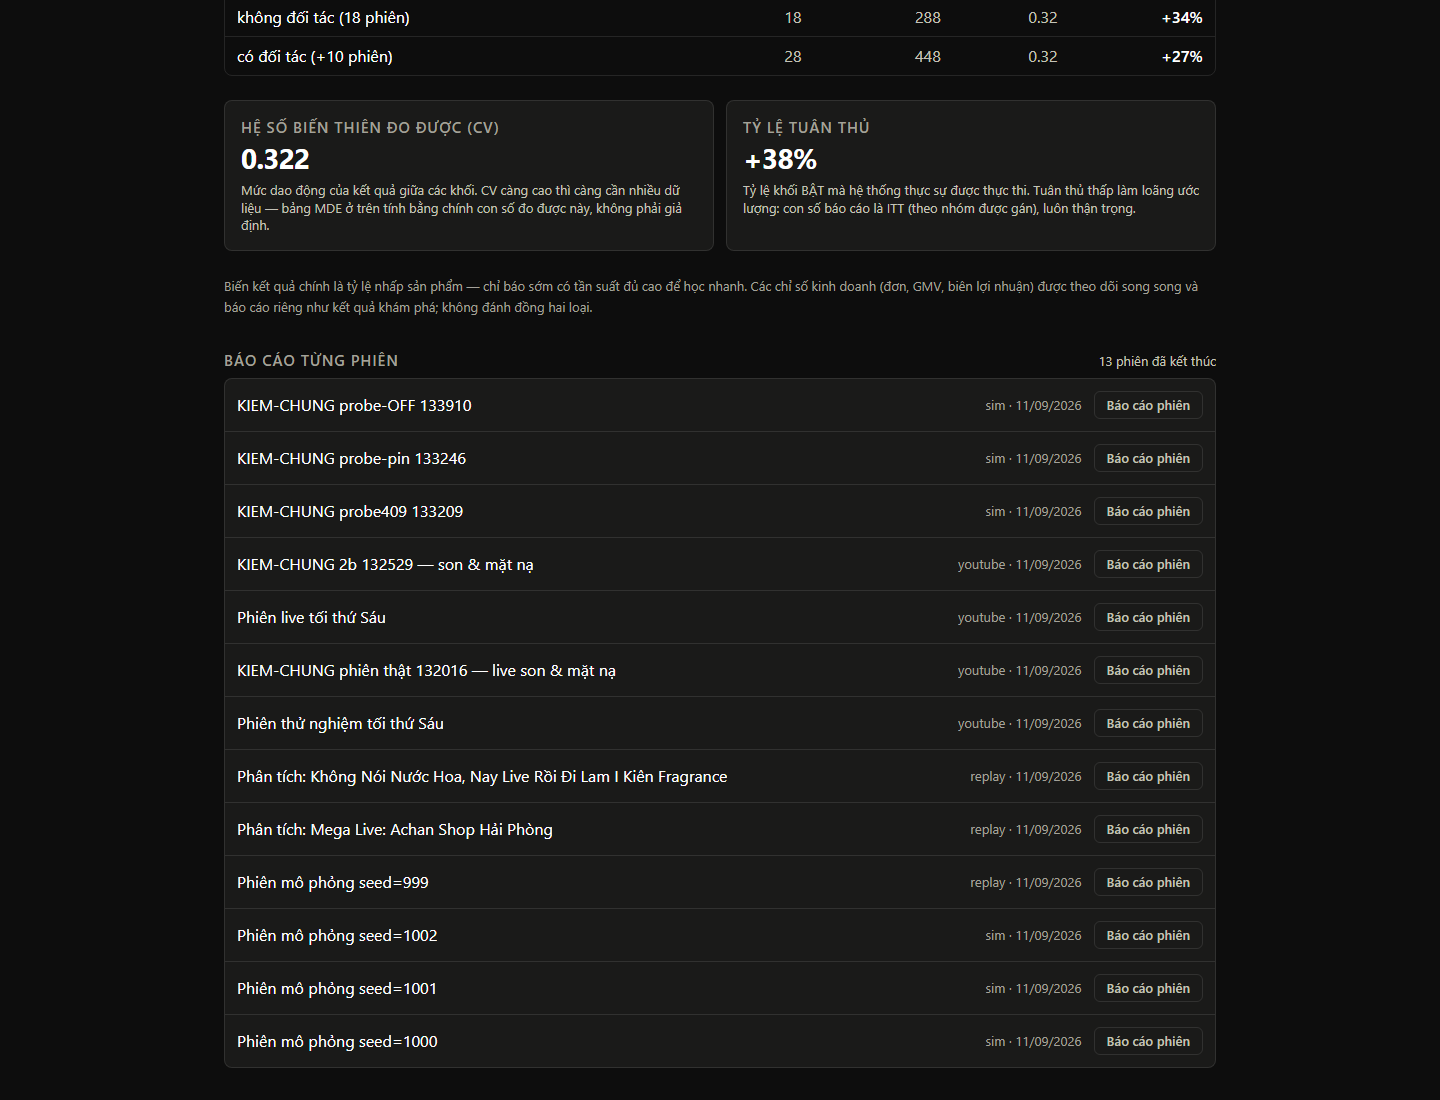
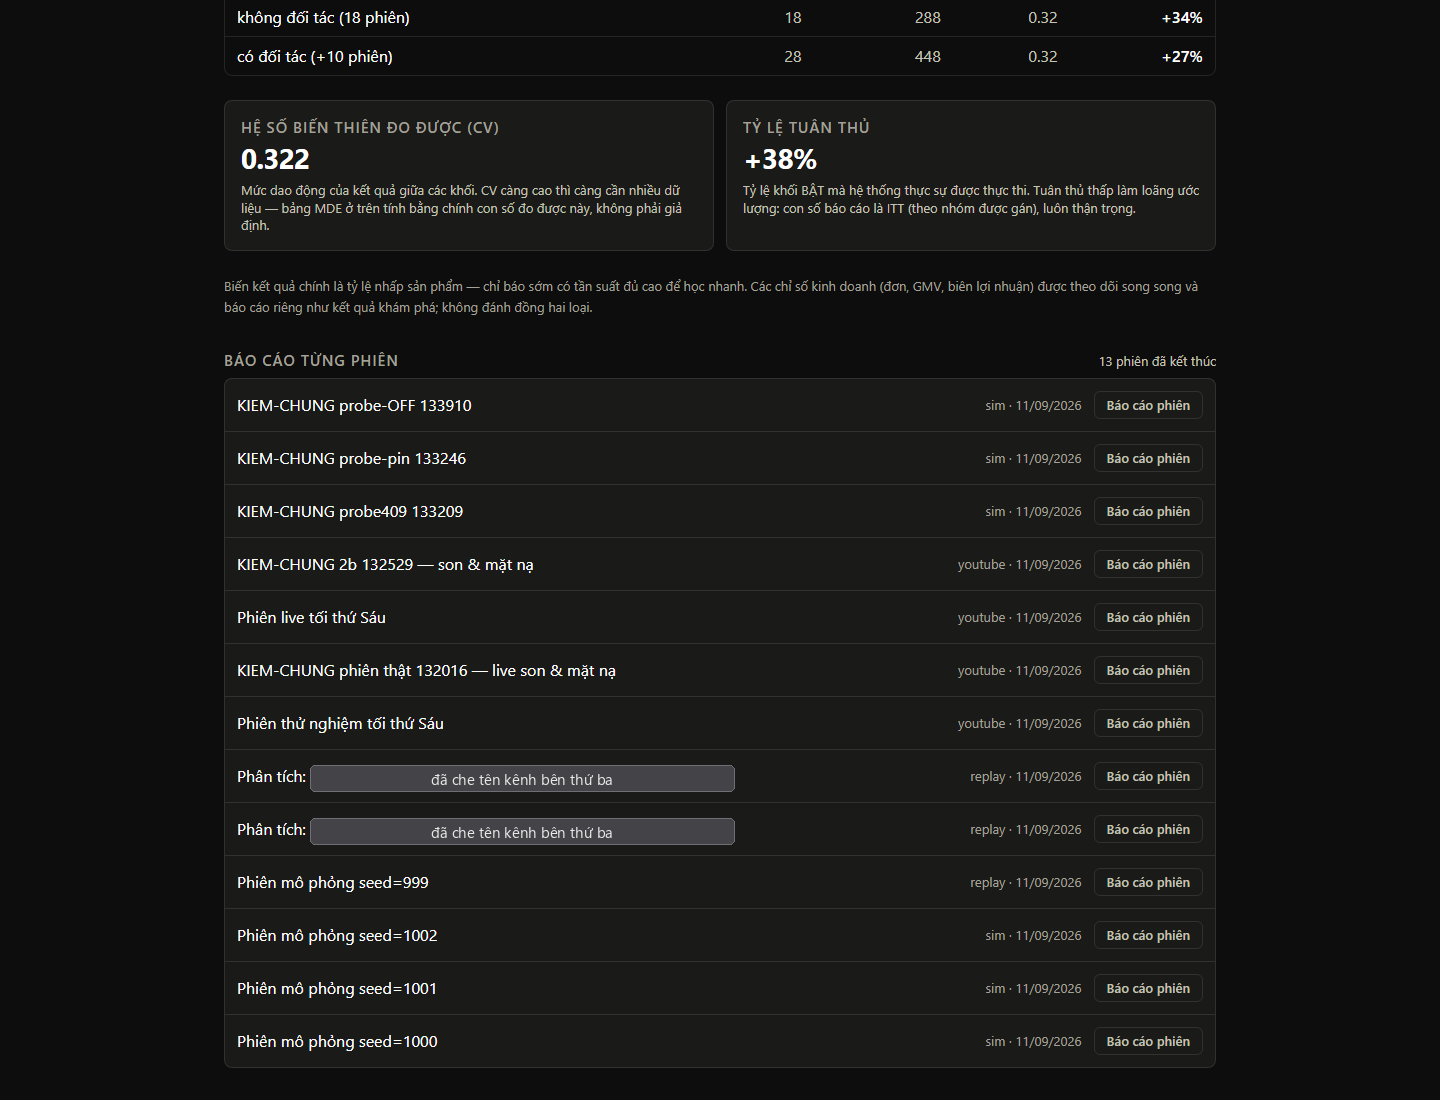
Anh huong dan: che binh luan nguoi xem va ten kenh ben thu ba
Truoc khi day len kho cong khai, che bang khoi xam co chu cac vung rieng tu
trong 4 anh chup ngay 11/09 cua docs/img/:
- l2-04, l2-05: khung binh luan truc tiep (binh luan nguyen van, ten tai
  khoan) va ten buoi live trong o chon buoi.
- l4-02: ten hai buoi live cua kenh khac trong danh sach bao cao.
- l4-03: ten buoi live o tieu de bao cao.
Giu nguyen moc thoi gian, nhan y dinh, nut va bieu do de huong dan van dung
duoc. Them hai cau ghi chu o cho dung anh trong docs/HUONG-DAN-SU-DUNG.md.
Da xem 27 anh docs/img/ (khong tinh v2/); 23 anh con lai khong co noi dung
rieng tu.

Changed region(s): [[0.2188, 0.68, 0.5312, 0.7727]]

diff --git a/docs/HUONG-DAN-SU-DUNG.md b/docs/HUONG-DAN-SU-DUNG.md
@@ -288,6 +288,10 @@ Buổi phân tích là dòng bắt đầu bằng **"Phân tích: …"**; phiên 
 
 ![Đã chọn đúng buổi vừa phân tích](img/l2-04-chon-buoi-trong-dropdown.png)
 
+*(Trong ảnh này và ảnh ở bước 2.5, bình luận của người xem và tên kênh đã được
+che bằng khối xám để giữ riêng tư cho người xem và chủ kênh. Trên máy của bạn,
+các chỗ đó hiện đầy đủ.)*
+
 Đúng buổi rồi thì: tổng thời lượng bên phải khớp buổi đó (ví dụ `01:58:00`), và
 khung **Radar bình luận** có bình luận tiếng Việt thật.
 
@@ -670,6 +674,9 @@ thống không bịa ra con số đẹp.
 nút **"Báo cáo phiên"** ở dòng bạn muốn.
 
 ![Danh sách báo cáo từng phiên](img/l4-02-ket-qua-bao-cao-tung-phien.png)
+
+*(Tên các buổi live của kênh khác trong ảnh này và ảnh ở mục 6.3 đã được che bằng
+khối xám. Trên máy của bạn, tên buổi hiện đầy đủ.)*
 
 ### 6.3 — Đọc báo cáo sau phiên
 
